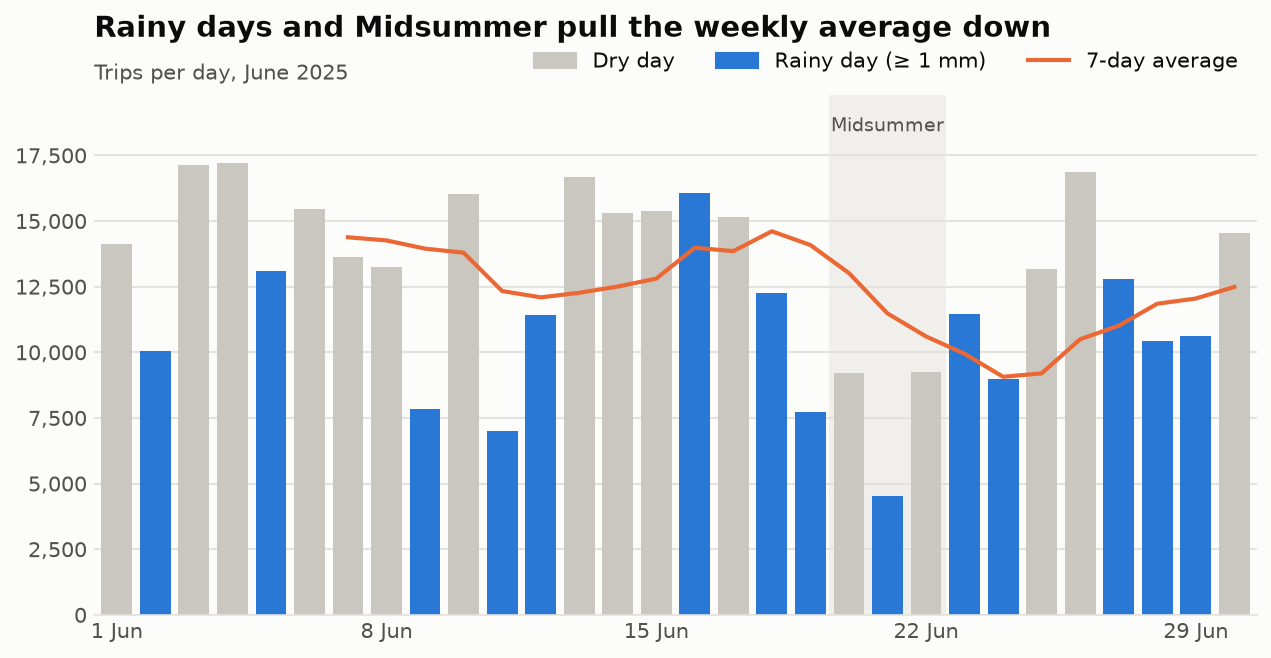
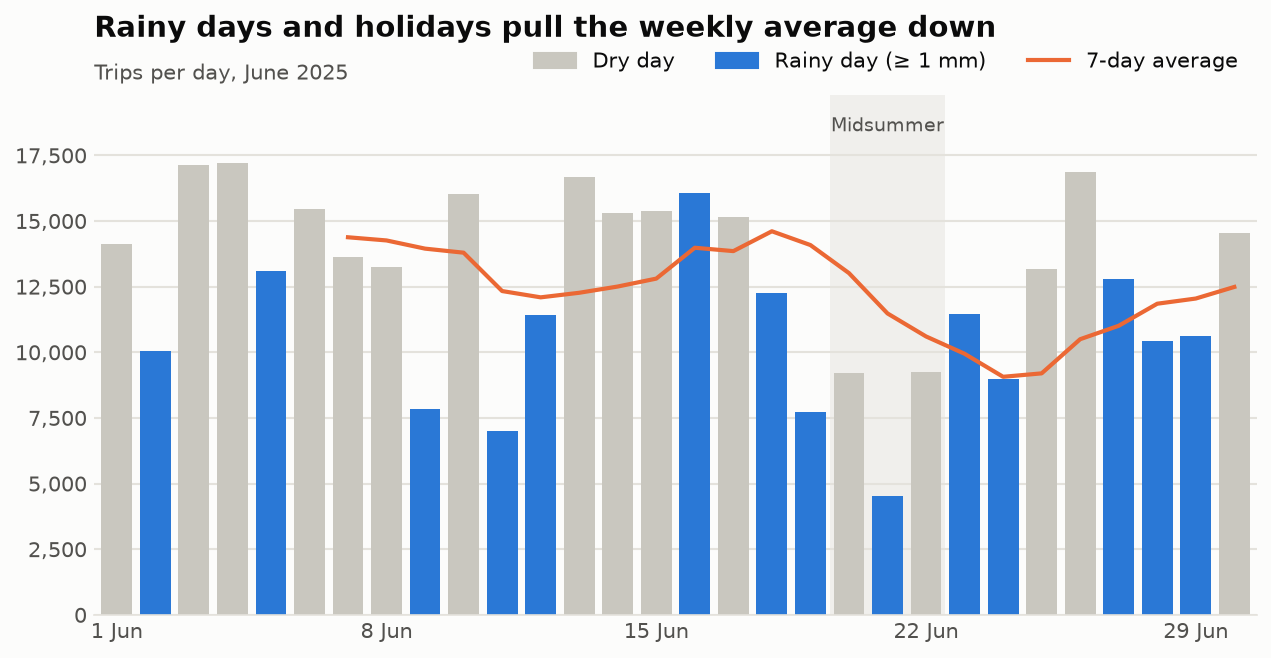
Charts from views: daily dots, params, no hardcoded dates

Changed region(s): [[0.2762, 0.0, 0.8285, 0.0608]]

diff --git a/analysis.py b/analysis.py
@@ -8,23 +8,33 @@ import matplotlib.dates as mdates
 from matplotlib.lines import Line2D
 from matplotlib.patches import Patch
 from matplotlib.ticker import FuncFormatter
+import numpy as np
 import pandas as pd
 
-DB_FILE = "data/bikes.db"
+from pipeline import DB_FILE, RAIN_THRESHOLD_MM, HEAVY_RAIN_MM
+
 OUT_DIR = "images"
 
 # Colors (validated reference palette: slot 1 blue, slot 2 orange)
 BLUE = "#2a78d6"
+LIGHT_BLUE = "#b7d3f6"  # same hue, light step: averages behind the dots
 ORANGE = "#eb6834"
-GRAY = "#c9c7bf"       # neutral bars (context)
+GRAY = "#c9c7bf"        # neutral bars (context)
+HOLIDAY_BG = "#f0efec"
 TEXT = "#0b0b0b"
 TEXT_2 = "#52514e"
 GRID = "#e4e2dc"
 SURFACE = "#fcfcfb"
 
-HOLIDAY_START, HOLIDAY_END = "2025-06-20", "2025-06-22"
-
 thousands = FuncFormatter(lambda x, _: f"{x:,.0f}")
+
+
+def period_label(dates):
+    """'June 2025' for one month, 'Jun 2025 – Aug 2025' for several."""
+    start, end = dates.min(), dates.max()
+    if (start.year, start.month) == (end.year, end.month):
+        return start.strftime("%B %Y")
+    return f"{start:%b %Y} – {end:%b %Y}"
 
 
 def style(ax, title, subtitle):
@@ -49,74 +59,70 @@ def save(fig, name):
 
 
 def chart_rain_intensity(conn):
-    """Q2: weekday trips by rain intensity."""
-    df = pd.read_sql(f"""
-        WITH daily AS (
-            SELECT t.trip_date, COUNT(*) AS trips, w.precipitation_mm
-            FROM trips t
-            JOIN weather w ON t.trip_date = w.date
-            WHERE strftime('%w', t.trip_date) NOT IN ('0', '6')
-              AND t.trip_date NOT BETWEEN '{HOLIDAY_START}' AND '{HOLIDAY_END}'
-            GROUP BY t.trip_date
-        )
-        SELECT
-            CASE
-                WHEN precipitation_mm < 1 THEN 1
-                WHEN precipitation_mm <= 5 THEN 2
-                ELSE 3
-            END AS bucket,
-            COUNT(*) AS days,
-            AVG(trips) AS avg_trips
-        FROM daily
-        GROUP BY bucket
-        ORDER BY bucket
-    """, conn)
+    """Weekday trips by rain level: every day as a dot, the average as a bar."""
+    df = pd.read_sql(
+        "SELECT trip_date, trips, rain_level FROM daily_trips WHERE day_type = ?",
+        conn, params=("weekday",), parse_dates=["trip_date"],
+    )
+    levels = ["dry", "light", "heavy"]
+    names = {
+        "dry": f"Dry\n< {RAIN_THRESHOLD_MM:g} mm",
+        "light": f"Light rain\n{RAIN_THRESHOLD_MM:g}–{HEAVY_RAIN_MM:g} mm",
+        "heavy": f"Heavy rain\n> {HEAVY_RAIN_MM:g} mm",
+    }
+    stats = df.groupby("rain_level")["trips"].agg(["mean", "count", "max"]).reindex(levels)
+    base = stats.loc["dry", "mean"]
+    top = df["trips"].max()
 
-    names = {1: "Dry\n< 1 mm", 2: "Light rain\n1–5 mm", 3: "Heavy rain\n> 5 mm"}
-    labels = [f"{names[b]}\n{d} days" for b, d in zip(df["bucket"], df["days"])]
-    base = df["avg_trips"].iloc[0]
+    fig, ax = plt.subplots(figsize=(7, 4.8), facecolor=SURFACE)
+    ax.bar(range(3), stats["mean"], color=LIGHT_BLUE, width=0.55, zorder=1)
+    for i, level in enumerate(levels):
+        values = df.loc[df["rain_level"] == level].sort_values("trip_date")["trips"]
+        jitter = np.linspace(-0.15, 0.15, len(values)) if len(values) > 1 else [0]
+        ax.scatter(i + np.asarray(jitter), values, s=40, color=BLUE,
+                   edgecolor=SURFACE, linewidth=1.5, zorder=3)
 
-    fig, ax = plt.subplots(figsize=(7, 4.5), facecolor=SURFACE)
-    bars = ax.bar(labels, df["avg_trips"], color=BLUE, width=0.55)
-    for bar, value in zip(bars, df["avg_trips"]):
-        effect = "" if value == base else f"  (−{(base - value) / base:.0%})"
-        ax.text(bar.get_x() + bar.get_width() / 2, value + base * 0.02,
-                f"{value:,.0f}{effect}", ha="center", va="bottom",
+        mean = stats.loc[level, "mean"]
+        effect = "" if level == "dry" else f"  (−{(base - mean) / base:.0%})"
+        label_y = max(mean, stats.loc[level, "max"]) + top * 0.03
+        ax.text(i, label_y, f"avg {mean:,.0f}{effect}", ha="center", va="bottom",
                 fontsize=10, color=TEXT)
-    ax.set_ylim(0, base * 1.15)
+
+    ax.set_xticks(range(3))
+    ax.set_xticklabels([f"{names[l]}\n{int(stats.loc[l, 'count'])} days" for l in levels])
+    ax.set_ylim(0, top * 1.2)
+    ax.legend(
+        handles=[Patch(color=LIGHT_BLUE, label="Average"),
+                 Line2D([0], [0], marker="o", color="none", markerfacecolor=BLUE,
+                        markeredgecolor=SURFACE, markersize=8, label="One weekday")],
+        frameon=False, loc="upper right", ncol=2, fontsize=10, labelcolor=TEXT,
+    )
     style(ax, "Weekday trips drop as rain gets heavier",
-          "Average trips per weekday, June 2025 (Midsummer excluded)")
+          f"Trips per weekday, {period_label(df['trip_date'])} (holidays excluded)")
     save(fig, "rain_intensity.png")
 
 
 def chart_hourly(conn):
-    """Q3: average trips per hour, weekdays vs weekends."""
-    df = pd.read_sql(f"""
-        WITH trips_typed AS (
-            SELECT
-                CAST(strftime('%H', departure) AS INTEGER) AS hour,
-                trip_date,
-                CASE WHEN strftime('%w', trip_date) IN ('0', '6')
-                     THEN 'weekend' ELSE 'weekday' END AS day_type
-            FROM trips
-            WHERE trip_date NOT BETWEEN '{HOLIDAY_START}' AND '{HOLIDAY_END}'
-        ),
-        days AS (
-            SELECT day_type, COUNT(DISTINCT trip_date) AS n_days
-            FROM trips_typed GROUP BY day_type
+    """Average trips per hour: weekdays vs weekends."""
+    df = pd.read_sql("""
+        WITH n AS (
+            SELECT day_type, COUNT(*) AS n_days
+            FROM daily_trips
+            GROUP BY day_type
         )
-        SELECT t.hour, t.day_type, COUNT(*) * 1.0 / d.n_days AS avg_trips
-        FROM trips_typed t
-        JOIN days d ON t.day_type = d.day_type
-        GROUP BY t.hour, t.day_type
-        ORDER BY t.hour
-    """, conn)
+        SELECT h.hour, h.day_type, SUM(h.trips) * 1.0 / n.n_days AS avg_trips
+        FROM hourly_trips h
+        JOIN n ON h.day_type = n.day_type
+        WHERE h.day_type IN (?, ?)
+        GROUP BY h.hour, h.day_type
+        ORDER BY h.hour
+    """, conn, params=("weekday", "weekend"))
+    dates = pd.read_sql("SELECT trip_date FROM daily_trips", conn, parse_dates=["trip_date"])
     wide = df.pivot(index="hour", columns="day_type", values="avg_trips")
 
     fig, ax = plt.subplots(figsize=(8, 4.5), facecolor=SURFACE)
     for col, color, label in [("weekday", BLUE, "Weekdays"), ("weekend", ORANGE, "Weekends")]:
         ax.plot(wide.index, wide[col], color=color, linewidth=2, label=label)
-        ax.text(23.3, wide[col].iloc[-1], label, color=TEXT, fontsize=10, va="center")
 
     ax.set_xticks(range(0, 24, 3))
     ax.set_xticklabels([f"{h:02d}:00" for h in range(0, 24, 3)])
@@ -124,55 +130,57 @@ def chart_hourly(conn):
     ax.set_ylim(0, None)
     ax.legend(frameon=False, loc="upper left", fontsize=10, labelcolor=TEXT)
     style(ax, "Weekday commute peaks vs weekend afternoons",
-          "Average trips per hour of departure, June 2025 (Midsummer excluded)")
+          f"Average trips per hour of departure, {period_label(dates['trip_date'])} "
+          "(holidays excluded)")
     save(fig, "hourly.png")
 
 
 def chart_daily(conn):
-    """Q5: trips per day, rainy days highlighted, 7-day moving average."""
+    """Trips per day, rainy days highlighted, 7-day moving average, holidays shaded."""
     df = pd.read_sql("""
-        WITH daily AS (
-            SELECT trip_date, COUNT(*) AS trips
-            FROM trips
-            GROUP BY trip_date
-        )
         SELECT
-            d.trip_date,
-            d.trips,
-            w.is_rainy,
+            trip_date,
+            trips,
+            is_rainy,
+            day_type,
             CASE WHEN COUNT(*) OVER last7 = 7
-                 THEN AVG(d.trips) OVER last7 END AS avg_7d
-        FROM daily d
-        JOIN weather w ON d.trip_date = w.date
-        WINDOW last7 AS (ORDER BY d.trip_date ROWS BETWEEN 6 PRECEDING AND CURRENT ROW)
-        ORDER BY d.trip_date
-    """, conn)
-    df["trip_date"] = pd.to_datetime(df["trip_date"])
-    colors = [BLUE if r else GRAY for r in df["is_rainy"]]
+                 THEN AVG(trips) OVER last7 END AS avg_7d
+        FROM daily_trips
+        WINDOW last7 AS (ORDER BY trip_date ROWS BETWEEN 6 PRECEDING AND CURRENT ROW)
+        ORDER BY trip_date
+    """, conn, parse_dates=["trip_date"])
+    holidays = pd.read_sql(
+        "SELECT date, name FROM holidays WHERE date BETWEEN ? AND ?",
+        conn, params=(f"{df['trip_date'].min():%Y-%m-%d}", f"{df['trip_date'].max():%Y-%m-%d}"),
+        parse_dates=["date"],
+    )
+    top = df["trips"].max()
+    half_day = pd.Timedelta(hours=12)
 
     fig, ax = plt.subplots(figsize=(10, 4.5), facecolor=SURFACE)
-    ax.axvspan(pd.Timestamp(HOLIDAY_START) - pd.Timedelta(hours=12),
-               pd.Timestamp(HOLIDAY_END) + pd.Timedelta(hours=12),
-               color="#f0efec", zorder=0)
-    ax.text(pd.Timestamp("2025-06-21"), df["trips"].max() * 1.07, "Midsummer",
-            ha="center", fontsize=9, color=TEXT_2)
+    for day in holidays["date"]:
+        ax.axvspan(day - half_day, day + half_day, color=HOLIDAY_BG, linewidth=0, zorder=0)
+    for name, group in holidays.groupby("name"):
+        ax.text(group["date"].mean(), top * 1.07, name, ha="center", fontsize=9, color=TEXT_2)
+
+    colors = [BLUE if rainy else GRAY for rainy in df["is_rainy"]]
     ax.bar(df["trip_date"], df["trips"], color=colors, width=0.8, zorder=2)
     ax.plot(df["trip_date"], df["avg_7d"], color=ORANGE, linewidth=2, zorder=3)
 
     ax.set_xlim(df["trip_date"].min() - pd.Timedelta(hours=14),
                 df["trip_date"].max() + pd.Timedelta(hours=14))
     ax.xaxis.set_major_locator(mdates.DayLocator(bymonthday=[1, 8, 15, 22, 29]))
-    ax.xaxis.set_major_formatter(mdates.DateFormatter("%-d Jun"))
-    ax.set_ylim(0, df["trips"].max() * 1.15)
+    ax.xaxis.set_major_formatter(mdates.DateFormatter("%-d %b"))
+    ax.set_ylim(0, top * 1.15)
     ax.legend(
         handles=[Patch(color=GRAY, label="Dry day"),
-                 Patch(color=BLUE, label="Rainy day (≥ 1 mm)"),
+                 Patch(color=BLUE, label=f"Rainy day (≥ {RAIN_THRESHOLD_MM:g} mm)"),
                  Line2D([0], [0], color=ORANGE, linewidth=2, label="7-day average")],
         frameon=False, loc="upper right", ncol=3, fontsize=10, labelcolor=TEXT,
         bbox_to_anchor=(1, 1.12),
     )
-    style(ax, "Rainy days and Midsummer pull the weekly average down",
-          "Trips per day, June 2025")
+    style(ax, "Rainy days and holidays pull the weekly average down",
+          f"Trips per day, {period_label(df['trip_date'])}")
     save(fig, "daily.png")
 
 
